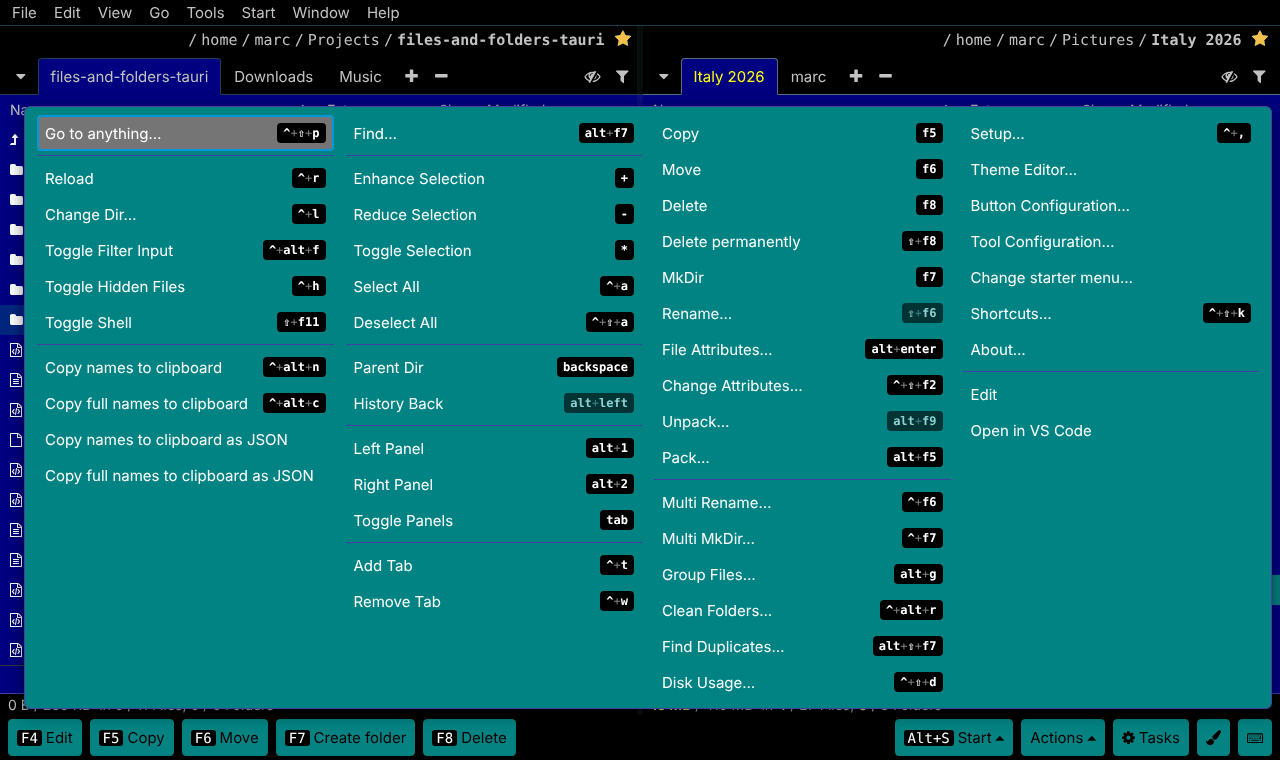
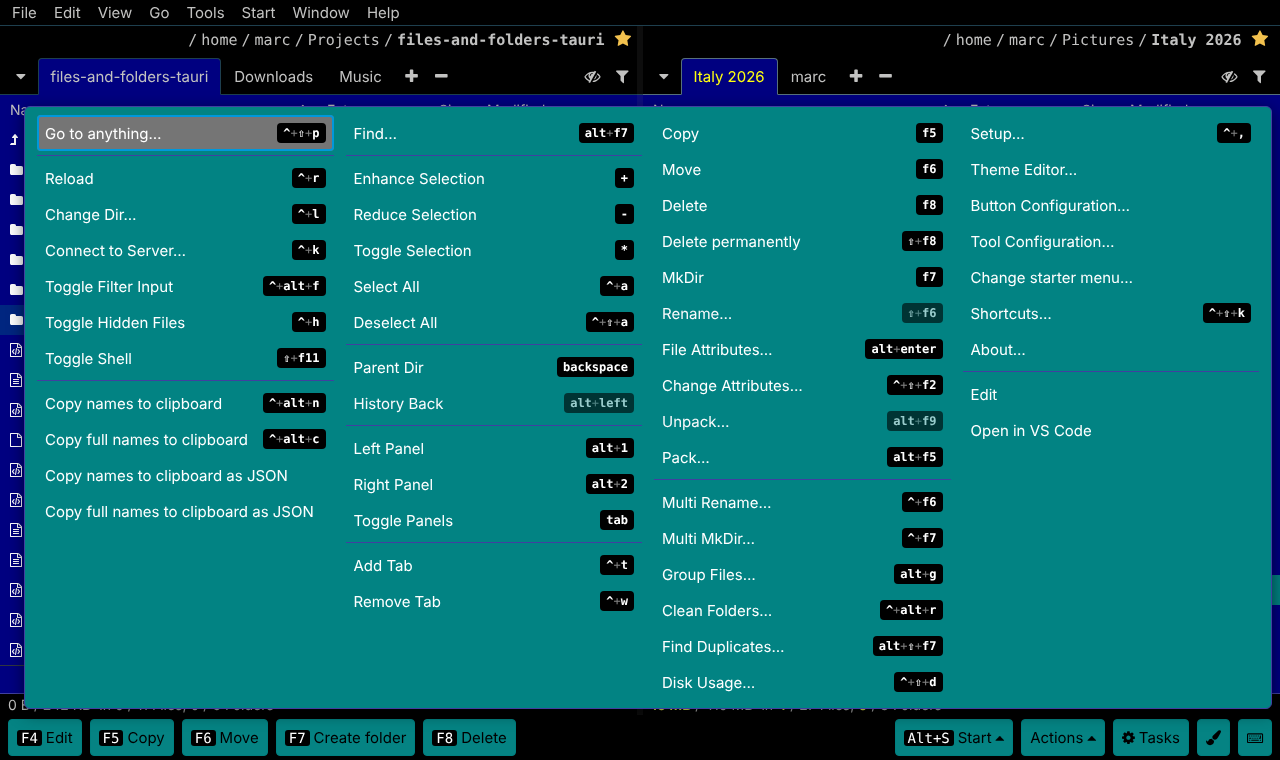
feat(actions): „Connect to Server…“ im Actions-Menü
Erste Spalte hinter „Change Dir…“ – Verbinden ist ein Weg, irgendwohin zu gehen.
Kurzbezeichnung en/de, Test und README-Screenshot nachgezogen.

Claude-Session: https://claude.ai/code/session_018EUch3oxPKsKA6qWHQgF5u

diff --git a/src/app/features/actions/actions-menu-def.ts b/src/app/features/actions/actions-menu-def.ts
@@ -8,7 +8,8 @@ export type ActionsMenuEntry = ActionId | '-' | '@tools';
  * `buttonpanel.component.ts` menuItems0–3, design 020 E1). Left out (✖, see design):
  * Download (HTTP transport), Server Shell (the terminal is a tool), Theme
  * Configuration (same dialog as the theme editor), File Type and Prompt
- * Configuration (no such configuration yet). Added: Find Duplicates, Shortcuts.
+ * Configuration (no such configuration yet). Added: Find Duplicates, Shortcuts,
+ * Connect to Server (034, next to Change Dir – it is a way to go somewhere).
  */
 export const ACTIONS_MENU_COLUMNS: readonly (readonly ActionsMenuEntry[])[] = [
   [
@@ -16,6 +17,7 @@ export const ACTIONS_MENU_COLUMNS: readonly (readonly ActionsMenuEntry[])[] = [
     '-',
     'RELOAD_DIR',
     'OPEN_CHDIR_DLG',
+    'OPEN_CONNECTIONS_DLG',
     'TOGGLE_FILTER',
     'TOGGLE_HIDDEN_FILES',
     'TOGGLE_SHELL',

diff --git a/src/app/features/actions/actions-texts.ts b/src/app/features/actions/actions-texts.ts
@@ -14,6 +14,7 @@ export const ACT_EN = {
     OPEN_COMMAND_PALETTE: 'Go to anything…',
     RELOAD_DIR: 'Reload',
     OPEN_CHDIR_DLG: 'Change Dir…',
+    OPEN_CONNECTIONS_DLG: 'Connect to Server…',
     TOGGLE_FILTER: 'Toggle Filter Input',
     TOGGLE_HIDDEN_FILES: 'Toggle Hidden Files',
     TOGGLE_SHELL: 'Toggle Shell',
@@ -109,6 +110,7 @@ const ACT_DE: Translation<typeof ACT_EN> = {
     OPEN_COMMAND_PALETTE: 'Gehe zu …',
     RELOAD_DIR: 'Neu laden',
     OPEN_CHDIR_DLG: 'Ordner wechseln…',
+    OPEN_CONNECTIONS_DLG: 'Mit Server verbinden…',
     TOGGLE_FILTER: 'Filter ein/aus',
     TOGGLE_HIDDEN_FILES: 'Versteckte Dateien ein/aus',
     TOGGLE_SHELL: 'Shell ein/aus',

diff --git a/src/app/features/actions/actions-menu.spec.ts b/src/app/features/actions/actions-menu.spec.ts
@@ -56,11 +56,12 @@ describe('Actions menu ▴ (design 020)', () => {
       [...g.children].map((c) =>
         c.getAttribute('role') === 'separator' ? '-' : c.querySelector('.label')?.textContent,
       );
-    expect(labels(groups[0]).slice(0, 4)).toEqual([
+    expect(labels(groups[0]).slice(0, 5)).toEqual([
       'Go to anything…',
       '-',
       'Reload',
       'Change Dir…',
+      'Connect to Server…',
     ]);
     expect(labels(groups[1])).toContain('Parent Dir');
     expect(labels(groups[2]).slice(0, 5)).toEqual([
